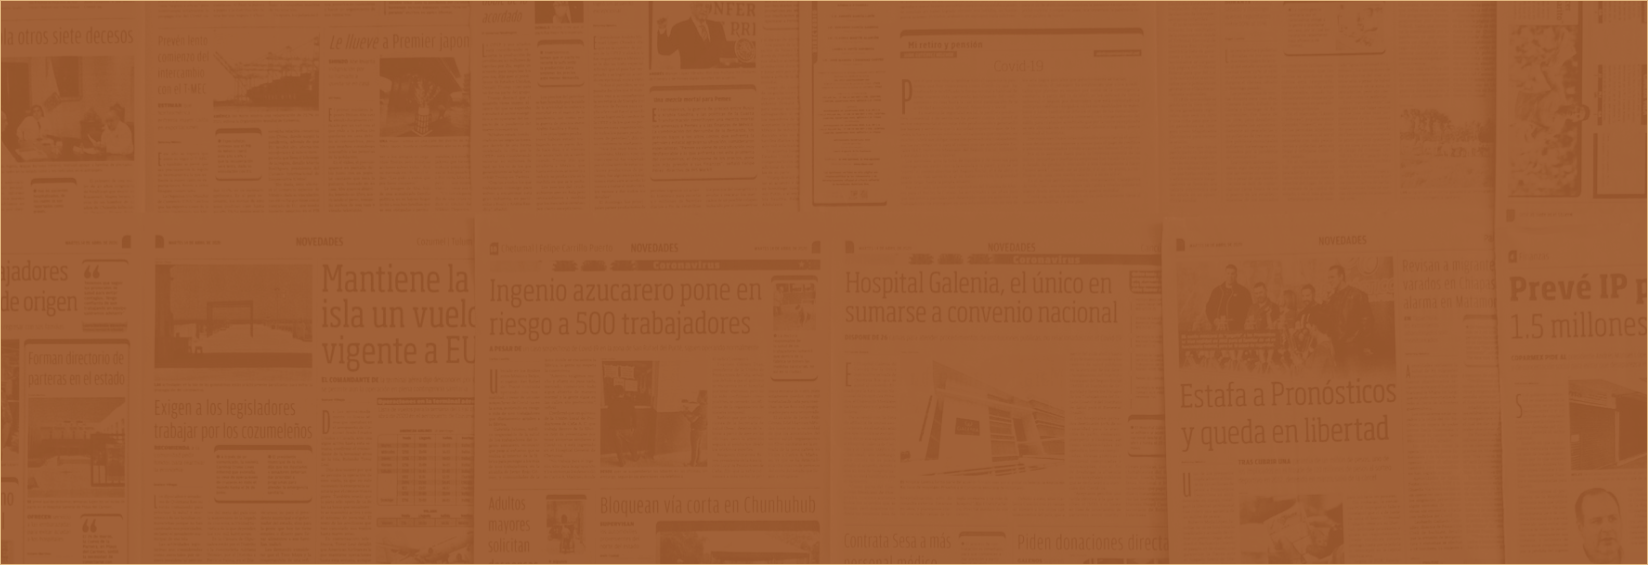
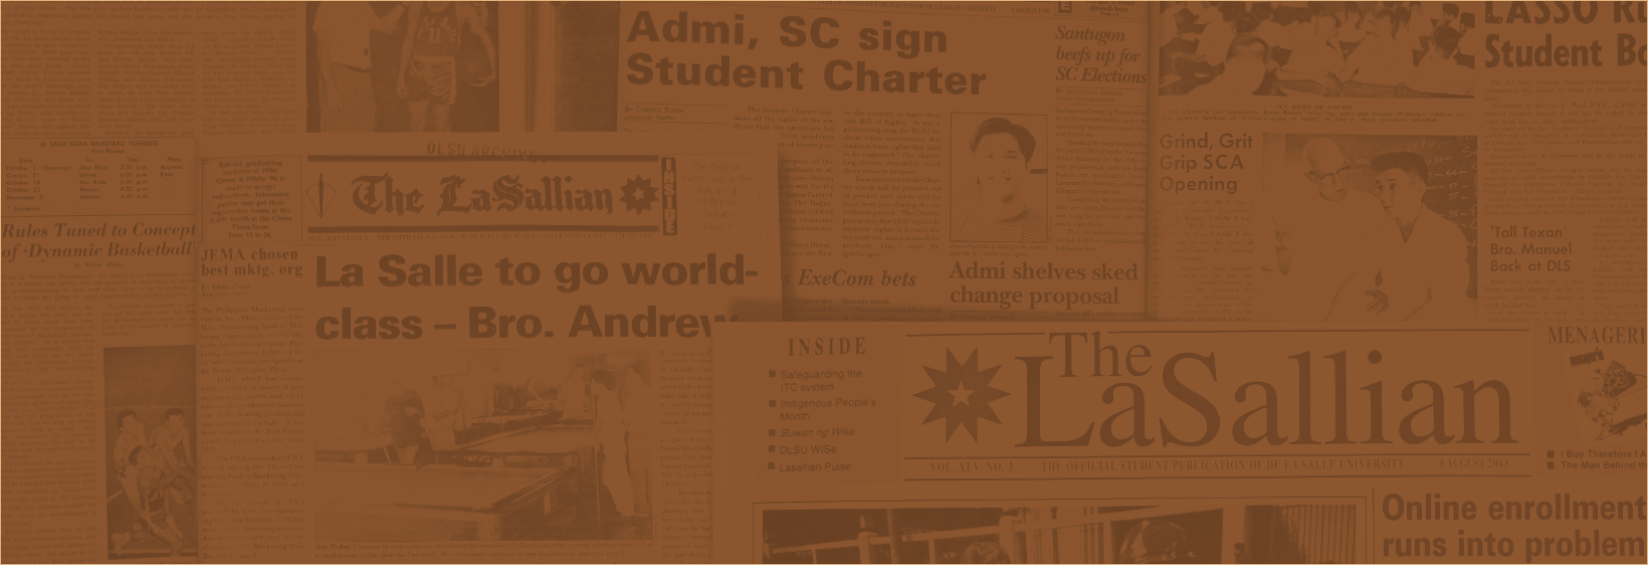
Updated new header image

diff --git a/styles/style.css b/styles/style.css
@@ -28,6 +28,7 @@ header {
     width: 84px;
 }
 
+/* Header Title */
 div.header-title {
     padding-left: 5em;
     padding-right: 5em;
@@ -51,37 +52,41 @@ p.header-description {
     color: var(--light-orange);
 }
 
+/* Header Article */
+div.row {
+    margin-top: 0rem;
+    margin-bottom: 0rem;
+}
+
 div.header-article {
-    padding-left: 3em;
-    padding-right: 3em;
+    padding-left: 2em;
+    padding-right: 2em;
 }
 
 .card {
-    box-shadow: 5px 3px 10px black;
-    height: 350px;
+    background: white;
+    box-shadow: 1px 1px 5px black;
+}
+
+.card:hover {
+    box-shadow: 0 .2rem .5rem rgba(0, 0, 0, 0.3);
+    background-color: #f8f4e6;
+}
+
+.article-title:hover {
+    text-decoration: underline;
 }
 
 div.card-body {
     margin-left: 1.5em;
 }
 
-.card-img {
-    height: 16rem;
-    object-fit: cover;
-}
-
 h5.article-category {
-    color: white;
-    border-radius: 25px;
-    background: var(--coffee);
-    width: 150px;
-    height: 24px;
-    margin-top: -10px;
-    padding: 2px;
-    padding-left: 16px;
-    box-shadow: 1px 1px 3px black;
-    display: inline-block;
+    /*display: inline-block;*/
     text-transform: uppercase;
+    background-color: var(--coffee);
+    color: white;
+    box-shadow: 1px 1px 5px black;
 }
 
 h4.article-title {
@@ -96,7 +101,6 @@ p.article-author {
     padding-right: 5px;
     box-shadow: 1px 1px 5px black;
     margin-top: 10px;
-
 }
 
 p.article-date {
@@ -107,10 +111,9 @@ p.article-date {
     font-style: italic;
     box-shadow: 1px 1px 5px black;
     margin-top: 10px;
-
 }
 
-p.article-intro {
+p.article-excerpt {
     color: white;
     background: var(--liver-chestnut);
     padding-left: 5px;
@@ -119,7 +122,6 @@ p.article-intro {
     padding-bottom: 5px;
     box-shadow: 1px 1px 5px black;
     margin-top: 10px;
-
 }
 
 /* Footer */

diff --git a/index.php b/index.php
@@ -1,6 +1,10 @@
 <!doctype html>
 <html lang="en">
 <head>
+    <?php
+        require_once("php/rest.php"); // Execute php rest script
+        require_once("php/functions.php"); // Include helper functions for articles and archived photos
+    ?>
     <!-- Required meta tags -->
     <meta charset="utf-8">
     <meta name="viewport" content="width=device-width, initial-scale=1">
@@ -14,23 +18,54 @@
   </head>
   <body>
 
-    <!-- Header -->
+    <!-- Loop to Display Feature Article -->
+    <?php
+        $articles = $_SESSION["ARTICLE_INFO"];
+        getArticleInfo($articles, 0, $date, $link, $title, $visual, $authors, $category);
+    ?>  
+  <!-- Header -->
     <header>
-      <div class="row">
-        <!-- Header Title -->
-        <div class="header-title col-sm-12 col-lg-6 d-flex flex-column justify-content-center align-items-center align-items-lg-start text-lg-start text-center">
-          <!-- Logo -->
-          <img src="images/old-tls-star.png" alt="The LaSallian FTA Star" class="header-logo mb-4">
-          <!-- Header Title -->
-          <h3 class="header-title-top">From the</h3>
-          <h1 class="header-title-bottom"><strong>Archives</strong></h1>
-          <!-- Header Description -->
-          <p class="header-description">Since its founding in 1960, The LaSallian has been committed to chronicling
-                                        chronicling the history of De La Salle University and Filipino society.
-                                        Explore the publication's articles, photographs, artworks, and videos to
-                                        truly unlock the essence of the bastion of issue-oriented critical thinking. </p>
+        <div class="row">
+            <!-- Header Title -->
+            <div class="header-title col-sm-12 col-lg-6 d-flex flex-column justify-content-center align-items-center align-items-lg-start text-lg-start text-center">
+                <!-- Logo -->
+                <img src="images/old-tls-star.png" alt="The LaSallian FTA Star" class="header-logo mb-4">
+                <!-- Header Title -->
+                <h3 class="header-title-top">From the</h3>
+                <h1 class="header-title-bottom"><strong>Archives</strong></h1>
+                <!-- Header Description -->
+                <p class="header-description">Since its founding in 1960, The LaSallian has been committed to chronicling
+                                             chronicling the history of De La Salle University and Filipino society.
+                                             Explore the publication's articles, photographs, artworks, and videos to
+                                             truly unlock the essence of the bastion of issue-oriented critical thinking.
+                </p>
+            </div>
+        
+            <!-- Header Article -->
+            <div class="container col-sm-12 col-lg-6">
+                <div class="card d-flex flex-column border-0 rounded-0">
+                    <div class="row g-0">
+                        <div class=" header-article col-sm-12 col-lg-6 flex-column justify-content-left" style="height: 15 rem">
+                            <!-- Article Details -->
+                            <h5 class="d-inline-block article-category py-1 px-3 rounded-pill fw-bold"><?php echo $category; ?></h5> <!-- Category -->
+                            <h4 class="article-title"><strong><?php echo $title; ?></strong></h4> <!-- Title -->
+
+                            <div class="d-flex flex-row">
+                                <p class="article-author"><strong><?php echo $authors; ?></strong></p> <!-- Authors -->
+                                <p class="article-date"><?php echo date('F j, Y', strtotime($date)); ?></p> <!-- Date -->
+                            </div>
+                            
+                            <p class="article-excerpt"><?php echo $excerpt; ?>...</p> <!-- Excerpt -->
+                            <a href="<?php echo $link; ?>" class="stretched-link"></a> <!-- Hyperlink -->
+                        </div>
+
+                        <div class="col-lg-6 col-sm-12 overflow-hidden d-flex align-items-center" style="height: 15 rem">
+                            <img class="w-100" src="<?php echo $visual; ?>" alt="">
+                        </div>
+                    </div>
+                </div>
+            </div>
         </div>
-      </div>
     </header>
 
     <h1 class="text-center">🦕🦕🦕</h1> <!-- Temporary -->
